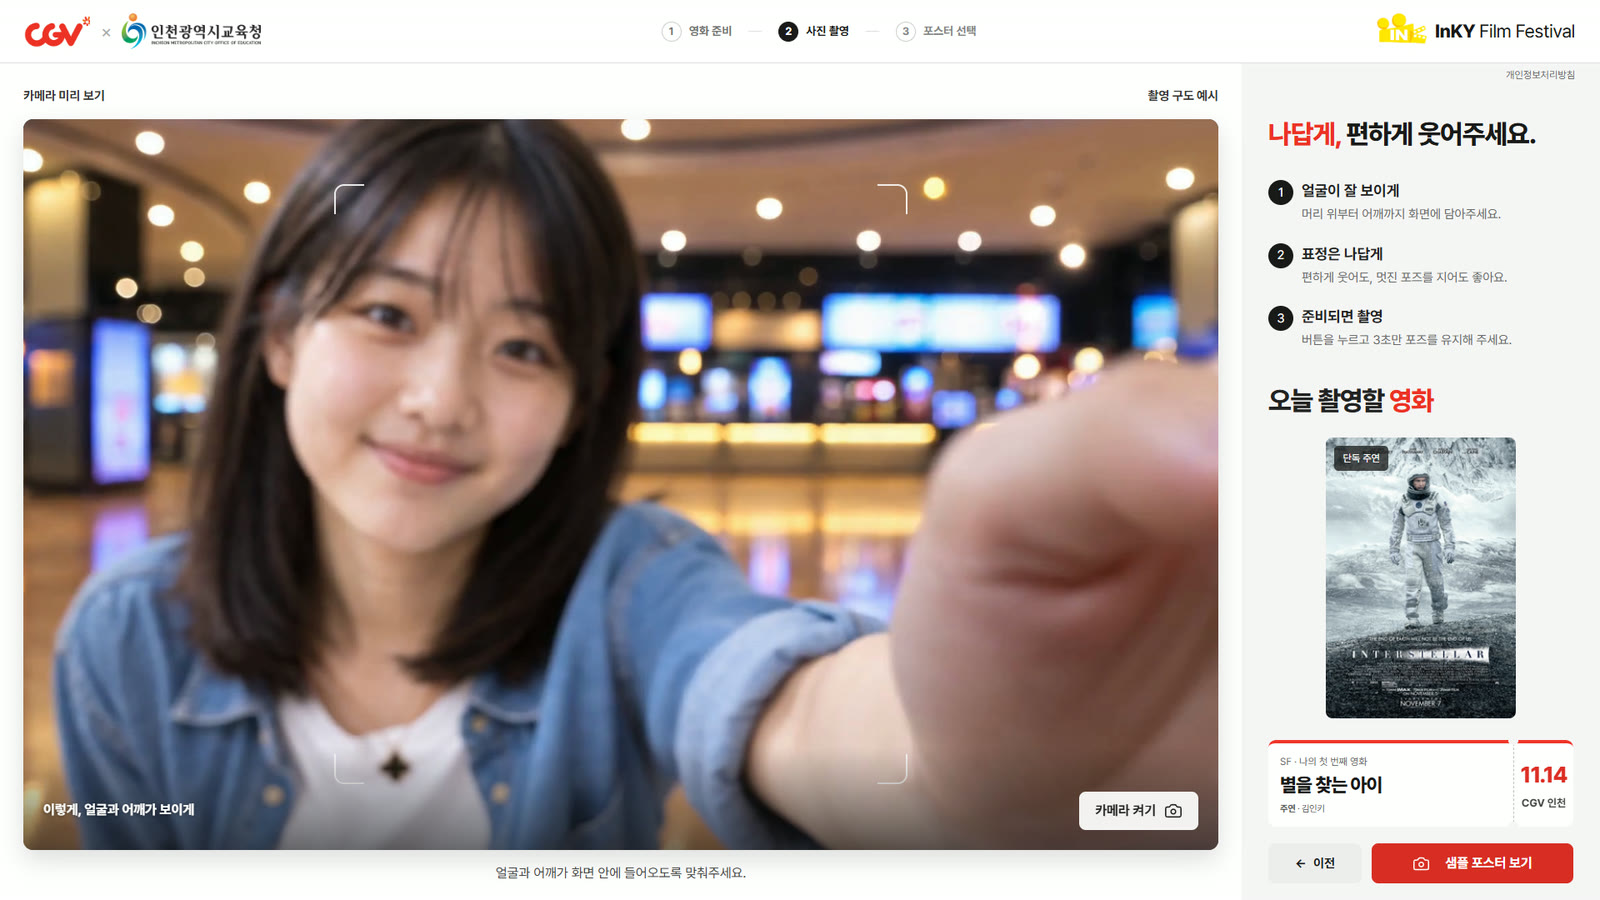
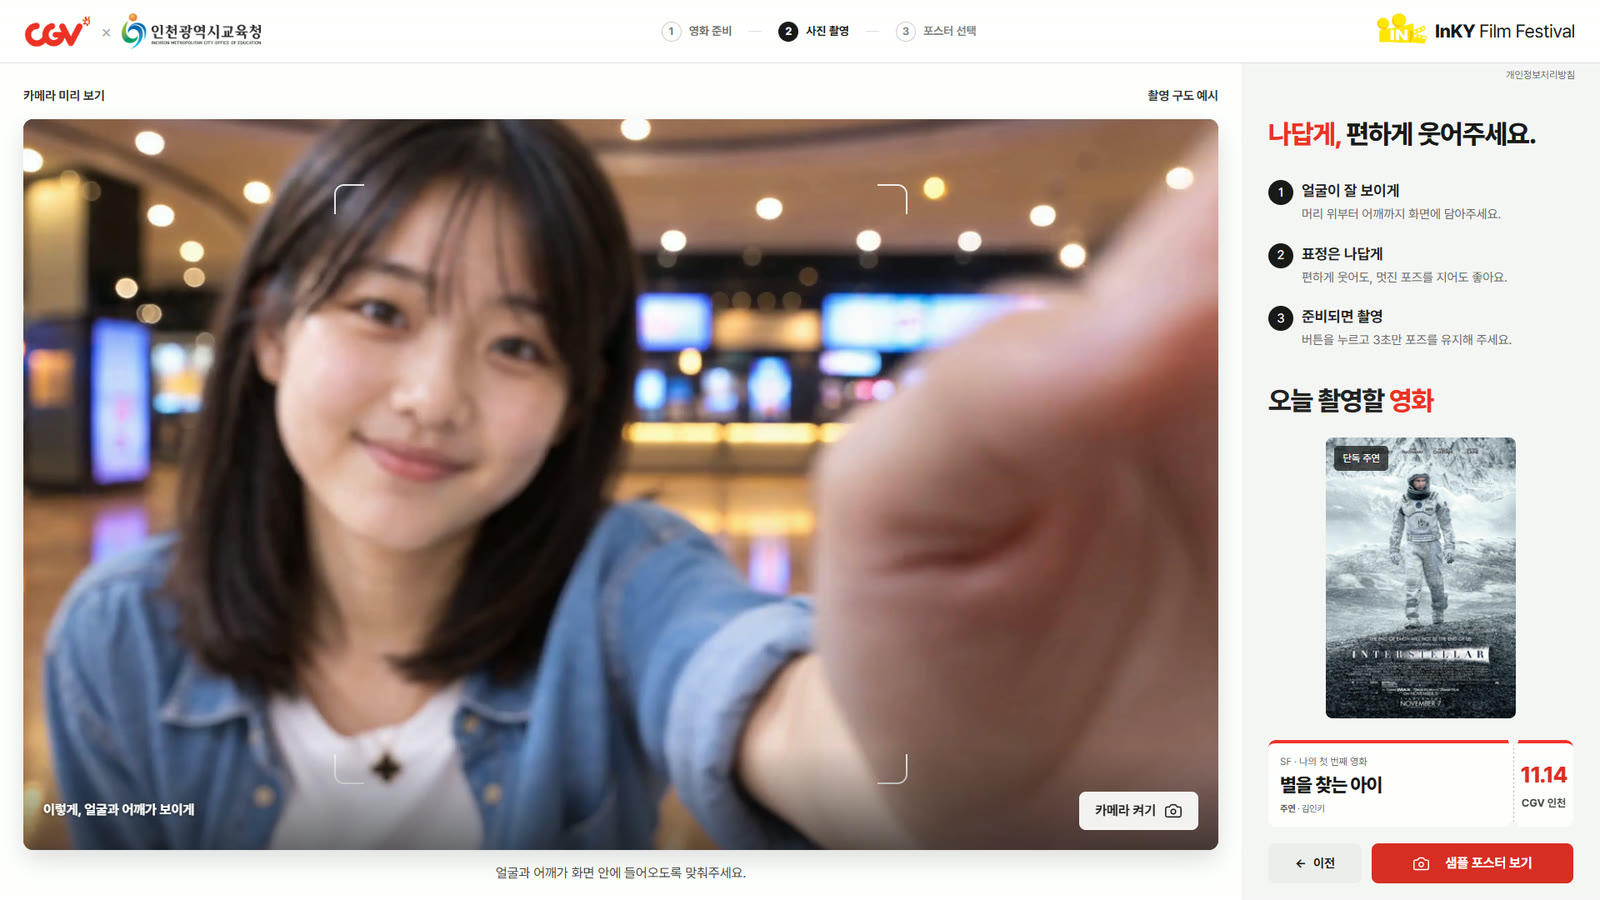
docs(manual): 설명서 그림 13장을 11/2 master(206e20f) 화면으로 다시 찍고 글을 지금 화면에 맞춤 — 첫 화면 다운로드 아이콘(설치판) 한 줄, 각자 테스팅의 없는 «PNG 저장» → 인쇄 창 «PDF로 저장», manual-pdf 하위 목록 (팀장 전달 — 11/2 Bumm님 최종검토 준비)
- 그림: manual-captures.mjs(개발 서버 8080 · 빌드 서버 5500 — 함수가 허용하는 주소라 «AI 서버 연결» 알림이 안 찍힌다). 바뀐 것 10장(01 다운로드 아이콘 · 09 휴대폰 첫 화면 아이콘 · 05 로딩 장면 · 그 밖은 예시 영상 프레임 차이), 03 · 04 · 10은 화소까지 같음.
- 운영자용 · 선생님용 머리말을 11/2 배포 화면(master 206e20f) 기준으로. 운영자용 3번 «주소 열기» 아래에 다운로드 아이콘(글자 없음) = Windows 설치판 받는 단추, 쓰는 법은 진행요원 · 교사용 매뉴얼.
- 각자 테스팅 6번: PC 화면에 없는 «PNG 저장»(10/2 결과 화면 개편 때 빠짐) 대신 인쇄 창 «PDF로 저장»을 고르지 않는다로.
- manual-pdf.mjs: 두 칸 이상 들여 쓴 목록을 앞 항목 안의 하위 목록으로 — 예전에는 펴서 각자 테스팅 6단계가 1~10번으로 찍혔다. 운영자용 · 선생님용 · 먼저 읽어 주세요의 HTML은 예전 도구와 글자 하나까지 같다.
- PDF 4종(00 1쪽 · 01 6쪽 · 02 2쪽 · 03 1쪽)은 저장소 밖 전달 폴더에 만들었다.

diff --git a/_docs/manual/operator.md b/_docs/manual/operator.md
@@ -1,6 +1,6 @@
 # Poster Studio 부스 운영 설명서 — 운영자용
 
-> 2026-10-26판(10/26 배포 화면 836b1b9 기준). 인쇄용 A4 PDF는 이 글에서 만든다.
+> 2026-11-02판(11/2 배포 화면 — master 206e20f 기준). 인쇄용 A4 PDF는 이 글에서 만든다.
 
 제4회 인천어린이청소년영화제(2026.11.14. 토, 10:30~15:00, CGV 인천) «InKY 놀이터»의 Poster Studio 부스입니다.
 아이가 영화 제목을 정하고 사진을 찍으면, AI가 그 사진으로 영화 장면 그림을 그리고, 화면에서 포스터 8가지 중 하나를 골라 4×6 사진 용지로 인쇄해 가져갑니다.
@@ -29,6 +29,7 @@
 1. **전원**: 노트북·프린터 모두 충전기를 꽂습니다. 🔴 프린터는 배터리만으로는 30장쯤에서 멈춥니다. 충전기를 꽂은 채로 인쇄하면 괜찮습니다.
 2. **인터넷**: 노트북을 와이파이 3개에 고르게 나눕니다(한 와이파이에 2대씩). 한 곳에 몰리면 그 노트북들만 «이 네트워크에서 요청이 너무 많이 몰렸습니다»가 뜰 수 있습니다.
 3. **주소 열기**: 크롬에서 **poster.edutogether.kr**을 엽니다.
+   - 첫 화면 오른쪽 위 «개인정보처리방침» 바로 왼쪽의 작은 아이콘(아래 화살표, 글자 없음)은 Windows 설치판(«Poster Studio Setup.exe»)을 받는 단추입니다. 설치판은 인터넷이 끊겼을 때 쓰는 비상판이고, 설치와 쓰는 법은 따로 드리는 «진행요원 · 교사용 매뉴얼»에 있습니다.
 4. **부스 코드**: 쓰지 않습니다(10/23 결정). 코드 창은 뜨지 않고, 주소만 열면 바로 촬영 · 생성할 수 있습니다.
 5. **소리**: 노트북 소리를 켜고, 부스 소음에 맞춰 적당히 키웁니다(촬영 화면의 예시 영상에 소리가 있습니다).
 6. **카메라**: «카메라 켜기»를 처음 누르면 크롬이 카메라를 써도 되는지 묻습니다. **허용**을 누릅니다.

diff --git a/_docs/manual/self-test.md b/_docs/manual/self-test.md
@@ -1,6 +1,6 @@
 # Poster Studio — 각자 테스팅 확인표 (행사 전, 노트북마다 한 번)
 
-> 2026-10-23. 모여서 하는 리허설 대신 노트북을 맡는 분이 각자 해 봅니다. **11월 12일(수)까지** 아래 표를 채워 기술 담당에게 보내 주세요.
+> 2026-10-23(11/2 화면에 맞춰 고침). 모여서 하는 리허설 대신 노트북을 맡는 분이 각자 해 봅니다. **11월 12일(수)까지** 아래 표를 채워 기술 담당에게 보내 주세요.
 
 **준비**: 행사 노트북 · 충전기 · 그 노트북에 붙일 와이파이(대여 와이파이 또는 핫스팟) · 포토프린터와 4×6 인화지 · 충전기
 
@@ -16,7 +16,7 @@
    프린터 선택 · 용지 **4×6(10×15cm)** · 여백 **없음** · 배율 **기본(100%)** · **머리글과 바닥글 끄기** → 인쇄.
    - **1장이 다 나올 때까지 걸린 시간**을 잽니다. 3분이 넘으면 꼭 적어 주세요(프린터 3대로 하루 인원을 못 따라갈 수 있습니다).
    - 인쇄 창 설정이 위와 다르게 맞아야 잘 나왔다면 그 설정을 그대로 적어 주세요(설명서에 반영합니다).
-6. **끝** — 브라우저 탭을 닫습니다. 크롬 기록 · 캐시는 지우지 않습니다(대기 영상 · 글꼴이 남아 행사 때 빨라집니다). «PNG 저장»은 누르지 않습니다(누르면 사진 파일이 노트북에 남습니다).
+6. **끝** — 브라우저 탭을 닫습니다. 크롬 기록 · 캐시는 지우지 않습니다(대기 영상 · 글꼴이 남아 행사 때 빨라집니다). 인쇄 창에서 «PDF로 저장»은 고르지 않습니다(고르면 사진 파일이 노트북에 남습니다).
 
 ## 보내 주실 표
 

diff --git a/_docs/manual/teacher.md b/_docs/manual/teacher.md
@@ -1,6 +1,6 @@
 # Poster Studio 안내 — 선생님용
 
-> 2026-10-26판 — 10/26 배포 화면(836b1b9) 기준(두 단추 — 찍기 전 «샘플 포스터 보기» · 휴대폰 촬영 화면 · 포스터 8종 새 디자인). 인쇄용 A4 PDF는 이 글에서 만든다.
+> 2026-11-02판 — 11/2 배포 화면(master 206e20f) 기준(두 단추 — 찍기 전 «샘플 포스터 보기» · 휴대폰 촬영 화면 · 포스터 8종 새 디자인). 인쇄용 A4 PDF는 이 글에서 만든다.
 
 ## 어떤 부스인가요
 
